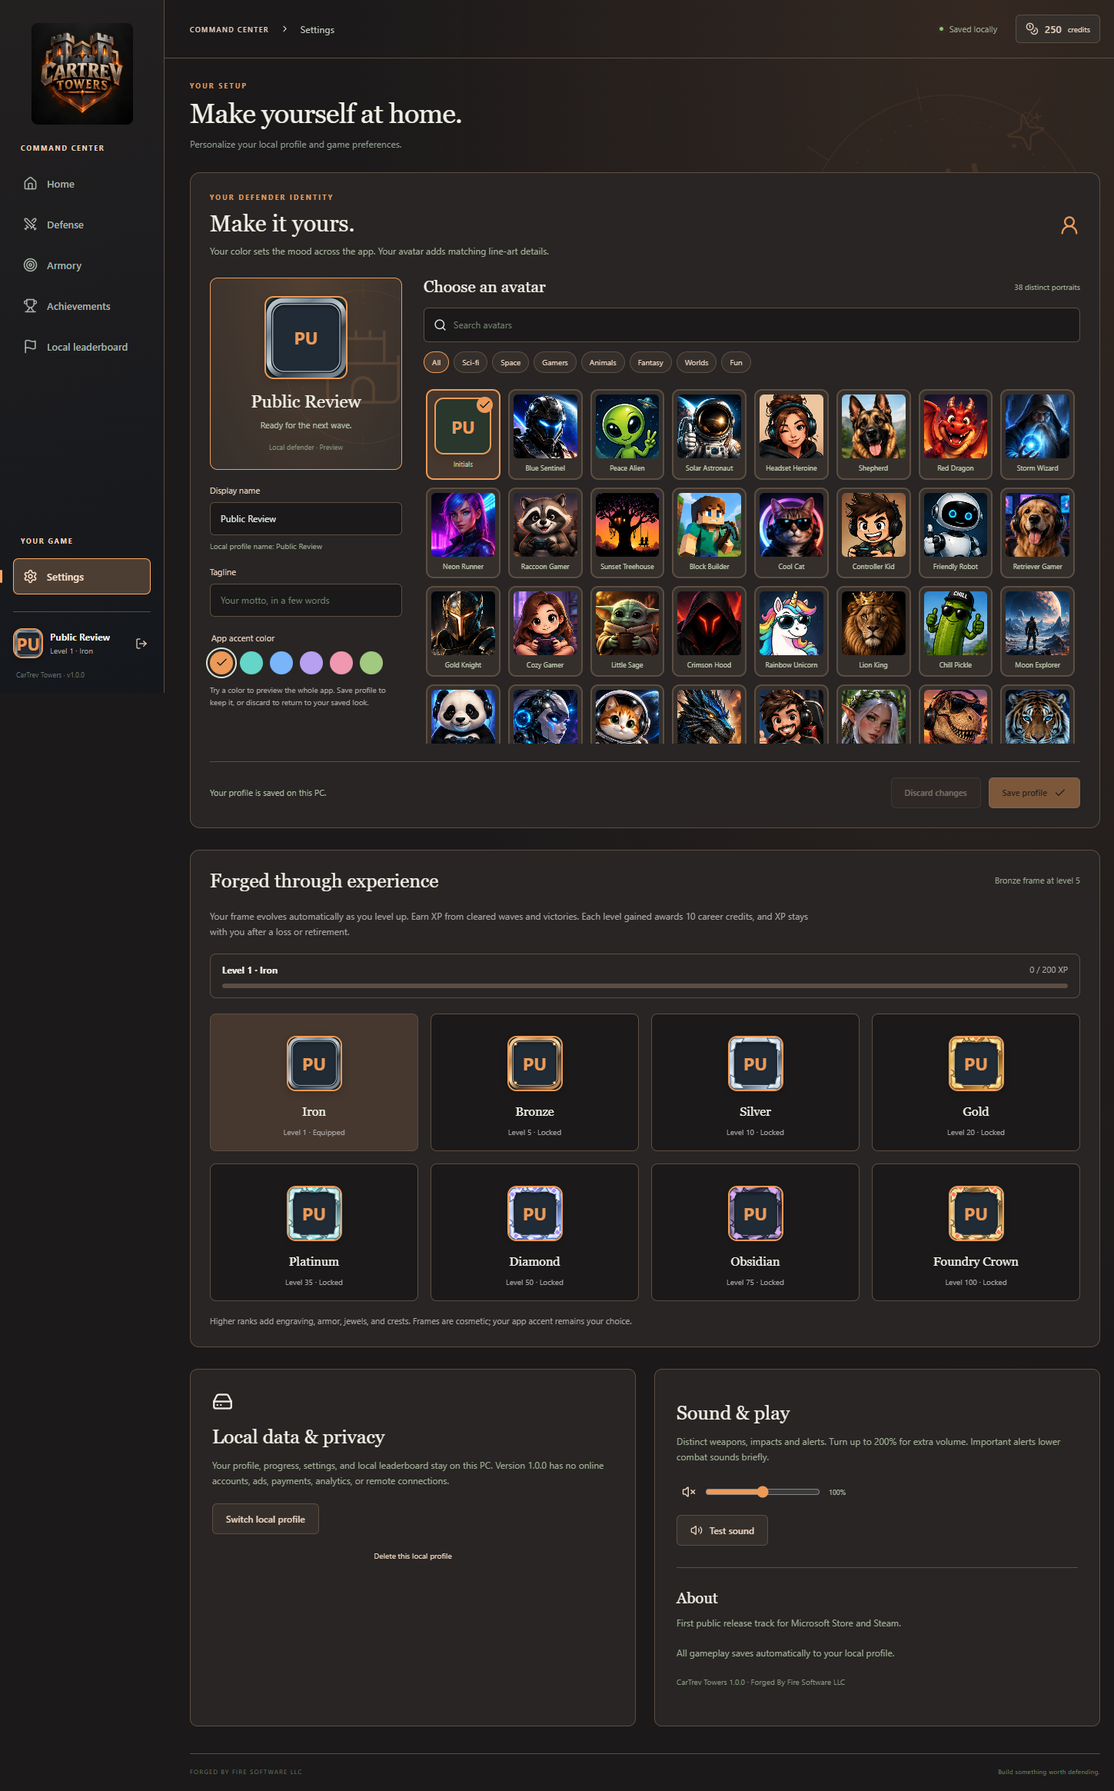
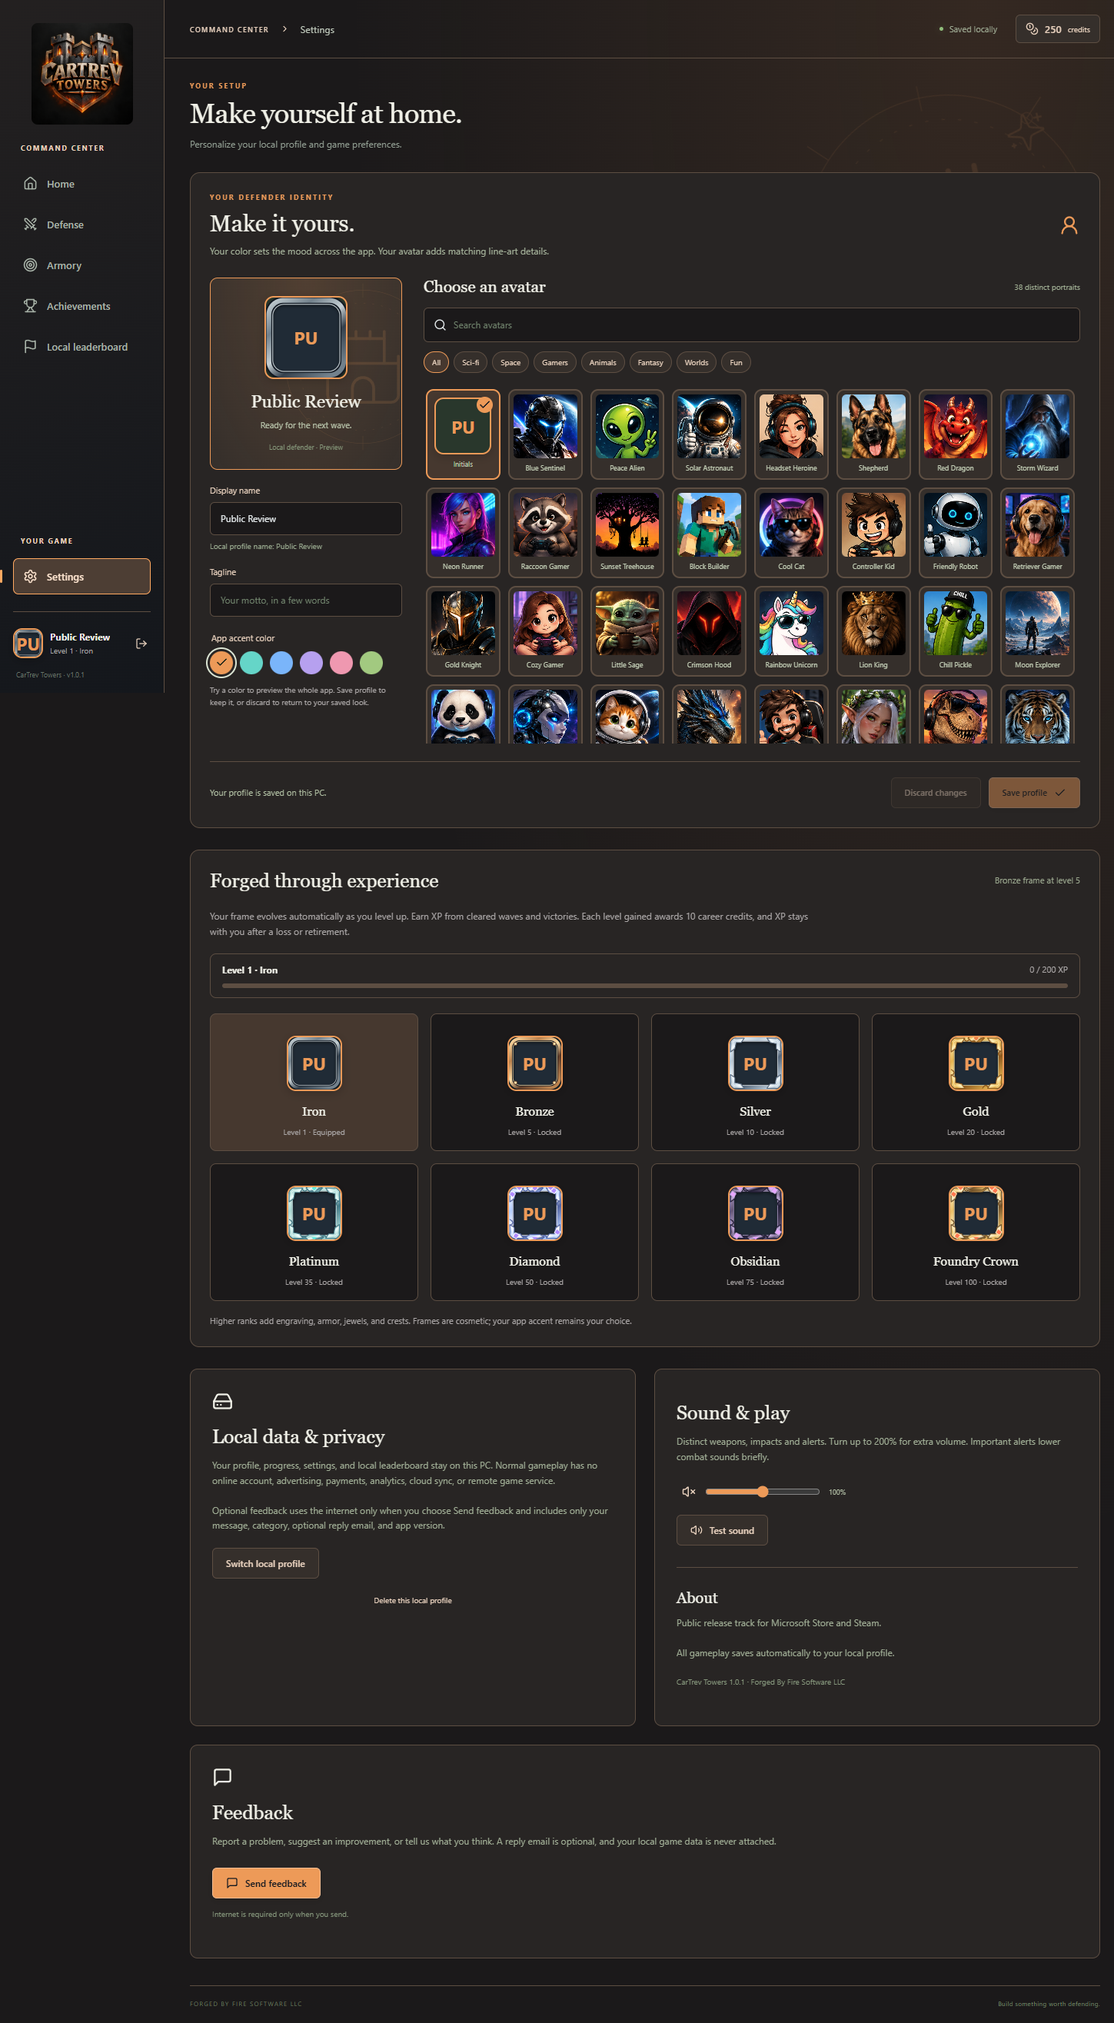
Document CarTrev Towers optional feedback

diff --git a/privacy.html b/privacy.html
@@ -50,7 +50,7 @@
         <ul class="bullets">
           <li><strong>Most desktop apps are local-first</strong> - PC Purifier, Master Generator, and The Forge are designed to keep their main files and settings on your device</li>
           <li><strong>Creative QR</strong> - QR creation, profiles and exports stay on your device. Optional feedback sends the message, category, optional reply email and app version to us. Read the <a href="#creative-qr">Creative QR privacy details</a></li>
-          <li><strong>CarTrev Towers 1.0.0</strong> - Local profiles, game saves, settings, achievements and leaderboard records stay on your Windows PC. This release has no CarTrev online account, advertising, payments, analytics or remote gameplay connection. Read the <a href="#cartrev-towers">CarTrev Towers privacy details</a></li>
+          <li><strong>CarTrev Towers</strong> - Local profiles, game saves, settings, achievements and leaderboard records stay on your Windows PC. Version 1.0.1 adds optional feedback that sends only the message, category, optional reply email and app version when you choose Send feedback. Read the <a href="#cartrev-towers">CarTrev Towers privacy details</a></li>
           <li><strong>ForgeFlix</strong> - The Xbox app is a private local-media client for an owner-controlled home-network server. It does not include movies, sell data, or send your local library to Forged By Fire Software LLC. Read the <a href="#forgeflix">ForgeFlix privacy details</a></li>
           <li><strong>Some features need permissions</strong> - Card Vault may ask for camera access, V.E.N.T may ask for microphone access, and some apps store local data so they can remember your work</li>
           <li><strong>Some features use the Internet</strong> - Master Generator uses the public TreV gateway for TreV responses and downloads image packs when you choose them; Card Vault uses our Card Vault service and card-data providers for search, price data, accounts, sync, Coach, and optional scan reports; V.E.N.T uses Forged By Fire Software LLC servers for chat, voice transcription, uploads, archives, and AI responses</li>
@@ -103,15 +103,16 @@
       </div>
 
       <div class="panel" id="cartrev-towers">
-        <h3>CarTrev Towers (Windows Game, v1.0.0)</h3>
+        <h3>CarTrev Towers (Windows Game, v1.0.0 and later)</h3>
         <ul class="bullets">
-          <li><strong>Local profiles</strong> - The player name and optional display name, tagline, avatar and accent you choose are saved on your Windows PC. CarTrev Towers 1.0.0 does not create a Forged By Fire Software LLC online account and does not require a password.</li>
+          <li><strong>Local profiles</strong> - The player name and optional display name, tagline, avatar and accent you choose are saved on your Windows PC. CarTrev Towers does not create a Forged By Fire Software LLC online account and does not require a password.</li>
           <li><strong>Local gameplay records</strong> - Game saves, map progress, tower licenses, credits, experience, achievements, statistics, preferences and the local leaderboard are stored in the app's local data folder. The leaderboard contains only profiles created on that PC.</li>
-          <li><strong>Local processing</strong> - The desktop app communicates with its packaged game service through a loopback connection on the same computer. Local profile names, scores and game data are not transmitted to Forged By Fire Software LLC by version 1.0.0.</li>
-          <li><strong>No advertising or analytics</strong> - Version 1.0.0 has no advertising network, behavioral analytics, install tracking, payments, cloud sync or remote gameplay service.</li>
+          <li><strong>Local processing</strong> - The desktop app communicates with its packaged game service through a loopback connection on the same computer. Local profile names, saves, progress, statistics, settings and leaderboard records are not attached to feedback or otherwise transmitted to Forged By Fire Software LLC.</li>
+          <li><strong>Optional feedback in v1.0.1 and later</strong> - Only when you choose Send feedback, the app sends your message, category, optional reply email and app version over HTTPS to our feedback service. We also record the receipt time and feedback status. The form does not attach your profile name, saves, progress, statistics, settings, computer details or an installation identifier. Anything you type into the message is included. An unsent draft remains only in the open form and is not automatically retried.</li>
+          <li><strong>No advertising or analytics</strong> - CarTrev Towers has no advertising network, behavioral analytics, install tracking, payments, cloud sync or remote gameplay service. Optional feedback is not gameplay analytics.</li>
           <li><strong>Microsoft Store</strong> - Microsoft processes Store account, acquisition, download, installation, update, certification and diagnostic information under <a href="https://privacy.microsoft.com/privacystatement" target="_blank" rel="noopener">Microsoft's Privacy Statement</a>. CarTrev Towers does not receive your Microsoft account password.</li>
           <li><strong>Support you choose to send</strong> - The game does not automatically send support information. If you use our website support form, it opens your email app; we receive only the message, reply details, screenshots or files you choose to send.</li>
-          <li><strong>Your controls</strong> - Use Settings &gt; Delete this local profile to remove that defender and its progress. Other local profiles remain. Uninstalling the game may not remove its Windows app-data folder; you can remove that folder separately if you want to erase all remaining CarTrev Towers local data. See <a href="delete-account.html#cartrev-towers">CarTrev Towers local-data instructions</a>.</li>
+          <li><strong>Your controls</strong> - Feedback is optional. Use Settings &gt; Delete this local profile to remove that defender and its progress. Other local profiles remain. Uninstalling the game may not remove its Windows app-data folder; you can remove that folder separately if you want to erase all remaining CarTrev Towers local data. These actions do not delete feedback already submitted. To request access, correction or deletion of identifiable feedback, email <a href="mailto:forgedbyfiresoftware@gmail.com">forgedbyfiresoftware@gmail.com</a> with CarTrev Towers, the approximate submission date and enough of the message or reply email to locate it. Anonymous feedback may be difficult to identify. See <a href="delete-account.html#cartrev-towers">CarTrev Towers data instructions</a>.</li>
           <li><strong>Local access</strong> - Anyone who can use your Windows account and open the game may be able to choose its local profiles. Use Windows account and device security when profiles should remain private.</li>
         </ul>
       </div>
@@ -225,7 +226,7 @@
 
       <div class="panel">
         <h3>Creative QR Feedback Delivery and Microsoft Store</h3>
-        <p>Creative QR feedback passes through Cloudflare to our HTTPS service. Cloudflare processes network traffic and connection information, such as IP addresses and request details, to deliver and protect the service. See <a href="https://www.cloudflare.com/policies/privacy/" target="_blank" rel="noopener">Cloudflare's Privacy Policy</a>. Email support is delivered through our Gmail inbox and your chosen email provider.</p>
+        <p>Creative QR and CarTrev Towers feedback pass through Cloudflare to our HTTPS service. Cloudflare processes network traffic and connection information, such as IP addresses and request details, to deliver and protect the service. See <a href="https://www.cloudflare.com/policies/privacy/" target="_blank" rel="noopener">Cloudflare's Privacy Policy</a>. Email support is delivered through our Gmail inbox and your chosen email provider.</p>
         <p>Microsoft handles Microsoft Store distribution and its own account, download and diagnostic information under <a href="https://privacy.microsoft.com/privacystatement" target="_blank" rel="noopener">Microsoft's Privacy Statement</a>. Creative QR does not receive your Microsoft account password. Windows, printers and other applications you choose have their own data practices.</p>
       </div>
 
@@ -298,7 +299,7 @@
           <li><strong>License emails</strong> - Kept indefinitely for license recovery support</li>
           <li><strong>Support emails</strong> - Kept for 2 years, then deleted</li>
           <li><strong>Creative QR in-app feedback</strong> - Kept while needed to investigate the report, provide support and verify improvements. There is currently no automatic expiry for in-app feedback. You may request deletion or de-identification of identifiable feedback through the contact details above. Removing a message from the owner's inbox only hides it; a data-deletion request is handled separately. Limited records may remain when needed for security, legal obligations or backup integrity.</li>
-          <li><strong>CarTrev Towers 1.0.0 local data</strong> - Profiles, saves, progress, achievements, preferences and local leaderboard records remain on the Windows PC until you delete the applicable profile or remove the remaining local app data. Support emails are kept for 2 years as described above.</li>
+          <li><strong>CarTrev Towers local data and feedback</strong> - Profiles, saves, progress, achievements, preferences and local leaderboard records remain on the Windows PC until you delete the applicable profile or remove the remaining local app data. Submitted feedback is kept while needed to investigate the report, provide support and verify improvements; there is currently no automatic expiry. You may request deletion or de-identification of identifiable feedback through the contact details above. Limited records may remain when needed for security, legal obligations or backup integrity. Support emails are kept for 2 years as described above.</li>
           <li><strong>ForgeFlix local data</strong> - Library records, watch progress, artwork references, pairing/session details, and server settings are kept on your Xbox or your own ForgeFlix server until you delete them, disconnect the app, clear app storage, stop/remove the server, or uninstall the app. Support emails are retained as described above.</li>
           <li><strong>Card Vault scan reports</strong> - Captured card images and related OCR, search, result, note, and timing details are kept only while useful for reproducing scanner failures, improving recognition, providing support, and verifying fixes. You can request removal of reports tied to your account</li>
           <li><strong>Card Vault accounts and synchronized libraries</strong> - Kept while the account remains active. Verified account deletion requests delete or de-identify account records and synchronized collection, deck, and preference records except limited records needed for security, support, legal compliance, or backup integrity</li>

diff --git a/faq.html b/faq.html
@@ -54,7 +54,7 @@
       <div class="panel">
         <h3>Do I need an account?</h3>
         <p>
-          CarTrev Towers 1.0.0 uses profiles stored on your PC and does not require a CarTrev online account or password. Creative QR, Latter-day Lens, and Master Generator also do not require an app account. Card Vault offers an optional account for features such as collection and deck sync. Your device's app store may require its own account for installation or purchases.
+          CarTrev Towers uses profiles stored on your PC and does not require a CarTrev online account or password. Creative QR, Latter-day Lens, and Master Generator also do not require an app account. Card Vault offers an optional account for features such as collection and deck sync. Your device's app store may require its own account for installation or purchases.
         </p>
       </div>
     </section>
@@ -158,8 +158,9 @@
     <section class="section">
       <h2 class="section-title" id="cartrev-towers">CarTrev Towers</h2>
       <div class="panel"><h3>What kind of game is CarTrev Towers?</h3><p>CarTrev Towers is a Windows tower defense game with four themed realms, 16 battlefields and 18 waves per defense. You build and upgrade towers while earning persistent local progression, achievements and cosmetic rewards. See the <a href="cartrev-towers.html">CarTrev Towers page</a>.</p></div>
-      <div class="panel"><h3>Does version 1.0.0 need an account or internet?</h3><p>No CarTrev online account or password is required. Version 1.0.0 saves profiles and gameplay locally and does not use remote gameplay services. Internet is needed to install or update through Microsoft Store and to voluntarily email support.</p></div>
-      <div class="panel"><h3>Where are profiles and leaderboards stored?</h3><p>They are stored in the CarTrev Towers app-data area for your Windows user. The leaderboard shows only profiles from that local installation; names, scores and saves are not uploaded to Forged By Fire Software LLC by version 1.0.0.</p></div>
+      <div class="panel"><h3>Does it need an account or internet?</h3><p>No CarTrev online account or password is required. Profiles and gameplay stay local, and the game has no remote gameplay service. Internet is needed to install or update through Microsoft Store and only when you choose to send optional in-app feedback or email support.</p></div>
+      <div class="panel"><h3>Where are profiles and leaderboards stored?</h3><p>They are stored in the CarTrev Towers app-data area for your Windows user. The leaderboard shows only profiles from that local installation; profile names, scores and saves are not uploaded to Forged By Fire Software LLC or attached to feedback.</p></div>
+      <div class="panel"><h3>What does in-app feedback send?</h3><p>Version 1.0.1 and later sends only your message, category, optional reply email and app version when you choose Send feedback. It does not attach your profile name, saves, progress, statistics, settings, computer details or an installation identifier. See the <a href="privacy.html#cartrev-towers">CarTrev Towers privacy details</a>.</p></div>
       <div class="panel"><h3>How do I delete a profile?</h3><p>Open the profile, go to Settings, choose Delete this local profile and confirm. Read the <a href="delete-account.html#cartrev-towers">local-data deletion instructions</a> before removing all app data.</p></div>
       <div class="panel"><h3>How do I get support?</h3><p>Use <a href="support.html?software=CarTrev%20Towers%20Windows#cartrev-towers">CarTrev Towers support</a>. Include the game version, battlefield, wave, what you expected and what happened.</p></div>
     </section>

diff --git a/cartrev-towers.html b/cartrev-towers.html
@@ -36,7 +36,7 @@
       <div class="hero-inner">
         <div class="card-top">
           <img src="assets/logos/cartrev-towers.png" alt="CarTrev Towers game icon" class="product-logo" width="128" height="128" />
-          <div><p class="hero-kicker">Windows PC · Version 1.0.0</p><h2>Four realms. Sixteen battlefields. One line to hold.</h2></div>
+          <div><p class="hero-kicker">Windows PC · Version 1.0.1</p><h2>Four realms. Sixteen battlefields. One line to hold.</h2></div>
         </div>
         <p class="lead">Build, upgrade and command specialized towers through 18-wave defenses spanning foundry, medieval, monster and space realms. Progress is saved automatically to local profiles on your PC.</p>
         <div class="pill-row"><span class="pill">Local-first</span><span class="pill">No online account</span><span class="pill">No ads or purchases</span></div>
@@ -68,8 +68,8 @@
     <section class="section">
       <h2 class="section-title">Local Profiles and Privacy</h2>
       <div class="panel">
-        <p>CarTrev Towers 1.0.0 runs its game service on your own PC. Local profile names, appearance, progress, saves, achievements and leaderboard records stay in the app's Windows data folder. No password or CarTrev online account is required.</p>
-        <p>This release has no advertising, analytics, payments or remote gameplay connection. Microsoft may process Store account, download, installation and diagnostic information under Microsoft's own privacy terms. If you voluntarily email support, only the information you choose to send is received by Forged By Fire Software LLC.</p>
+        <p>CarTrev Towers 1.0.1 runs its game service on your own PC. Local profile names, appearance, progress, saves, achievements and leaderboard records stay in the app's Windows data folder. No password or CarTrev online account is required.</p>
+        <p>This release has no advertising, analytics, payments, cloud sync or remote gameplay connection. Optional in-app feedback uses the internet only when you choose Send feedback and includes only your message, category, optional reply email and app version. Your profile and game data are never attached. Microsoft may process Store account, download, installation and diagnostic information under Microsoft's own privacy terms.</p>
         <div class="cta-row">
           <a class="btn btn-ghost" href="faq.html#cartrev-towers">CarTrev Towers FAQ</a>
           <a class="btn btn-ghost" href="privacy.html#cartrev-towers">Full privacy details</a>

diff --git a/delete-account.html b/delete-account.html
@@ -36,7 +36,7 @@
 
   <main class="page" id="main-content">
     <section class="section">
-      <p class="muted">Last updated: September 7, 2026</p>
+      <p class="muted">Last updated: October 4, 2026</p>
 
       <div class="panel">
         <h2>App Account Deletion</h2>
@@ -49,9 +49,10 @@
     <section class="section" id="cartrev-towers">
       <h2 class="section-title">CarTrev Towers: Delete Local Data</h2>
       <div class="panel">
-        <p>CarTrev Towers 1.0.0 has no online game account to delete. Its profiles, saves, progress, achievements, settings and local leaderboard records are stored on your Windows PC.</p>
+        <p>CarTrev Towers has no online game account to delete. Its profiles, saves, progress, achievements, settings and local leaderboard records are stored on your Windows PC.</p>
         <p>To remove one defender, open that profile, choose <strong>Settings</strong>, select <strong>Delete this local profile</strong>, and confirm. This permanently removes that profile and its progress while leaving other local profiles in place.</p>
-        <p>To remove all remaining CarTrev Towers data, uninstall the game and remove its app-data folder from your Windows user profile. Back up anything you want to keep first. Website support email is separate from local game data; contact <a href="mailto:forgedbyfiresoftware@gmail.com?subject=CarTrev%20Towers%20Data%20Question">forgedbyfiresoftware@gmail.com</a> with questions, but do not send passwords or unrelated private files.</p>
+        <p>To remove all remaining CarTrev Towers local data, uninstall the game and remove its app-data folder from your Windows user profile. Back up anything you want to keep first.</p>
+        <p>Deleting local data does not delete feedback already submitted. To request access, correction or deletion of identifiable feedback, contact <a href="mailto:forgedbyfiresoftware@gmail.com?subject=CarTrev%20Towers%20Feedback%20Data%20Request">forgedbyfiresoftware@gmail.com</a> with CarTrev Towers, the approximate submission date and enough of the message or reply email to locate it. Anonymous feedback may be difficult to identify. Do not send passwords or unrelated private files.</p>
         <p>See <a href="privacy.html#cartrev-towers">CarTrev Towers privacy details</a> for the complete description.</p>
       </div>
     </section>

diff --git a/support.html b/support.html
@@ -37,8 +37,8 @@
     <section class="section" id="cartrev-towers">
       <h2 class="section-title">CarTrev Towers Windows Support</h2>
       <div class="panel">
-        <p>CarTrev Towers 1.0.0 is a local-first tower defense game for Windows. Profiles, saves, progress and the leaderboard are stored on your PC; no CarTrev online account or password is required.</p>
-        <p>If something goes wrong, select <strong>CarTrev Towers Windows</strong> in the email form below. Include the app version, battlefield, wave, what you expected and what happened. Do not send private files or unrelated personal information.</p>
+        <p>CarTrev Towers 1.0.1 is a local-first tower defense game for Windows. Profiles, saves, progress and the leaderboard are stored on your PC; no CarTrev online account or password is required.</p>
+        <p>Use <strong>Settings &gt; Send feedback</strong> to report a problem or suggestion from the game. A reply email is optional, and profile names, saves, progress, statistics, settings and computer details are not attached. If feedback cannot send, the draft stays in the form while it remains open. You can also select <strong>CarTrev Towers Windows</strong> in the email form below. Include the app version, battlefield, wave, what you expected and what happened. Do not send private files or unrelated personal information.</p>
         <p>Deleting a local profile in Settings removes that defender and its progress from the game. See the links below for full privacy and local-data instructions.</p>
         <div class="cta-row">
           <a class="btn btn-ghost" href="cartrev-towers.html">CarTrev Towers details</a>
